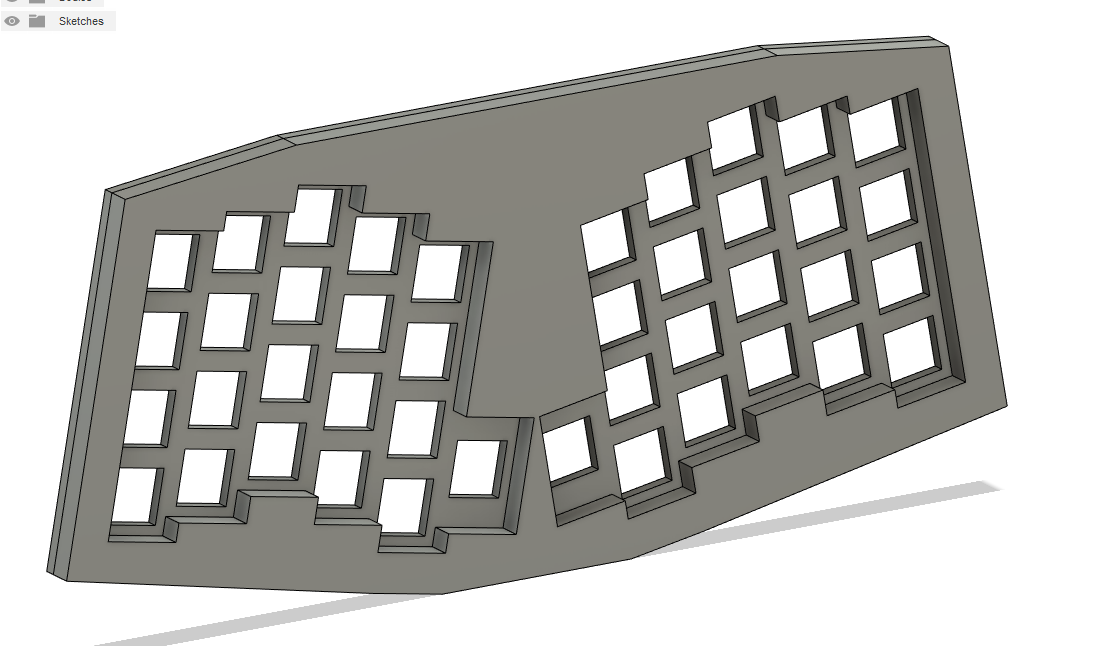
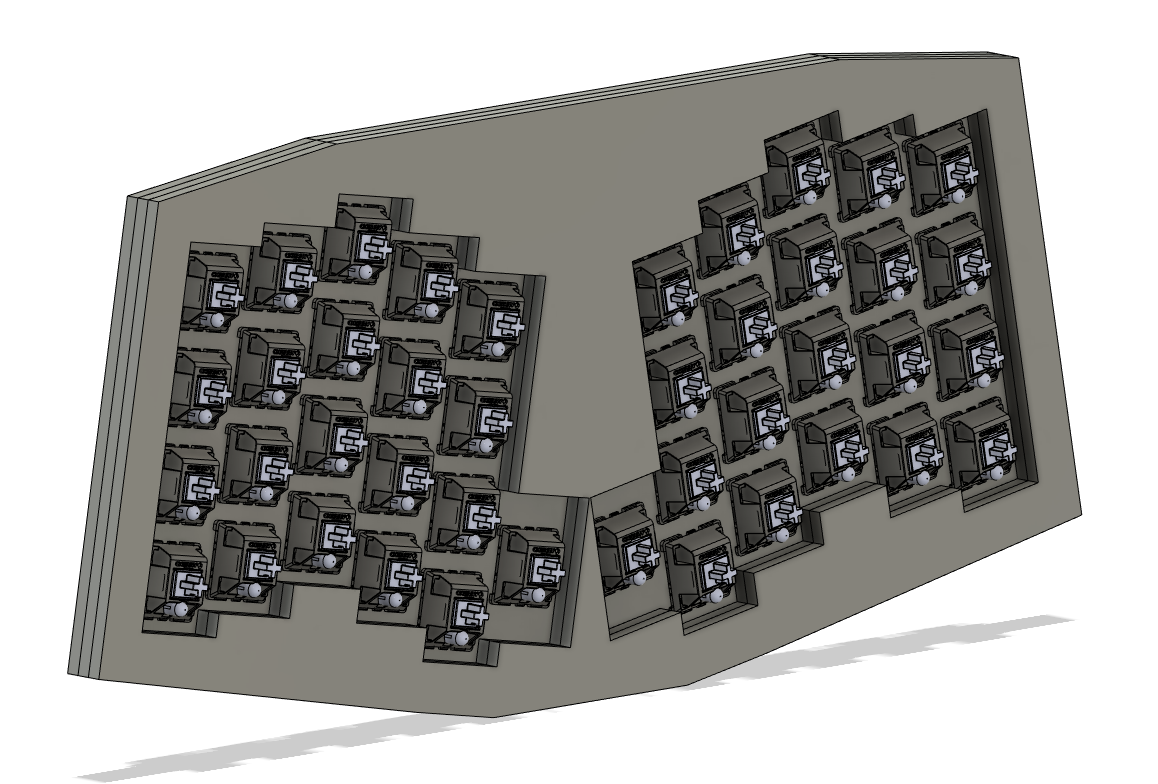
Update README with recent progress.

diff --git a/README.md b/README.md
@@ -25,9 +25,11 @@ To run the script, launch Fusion 360 and within a design press `Shift + S` to op
 
 A number of sample JSON files have been included for testing in this repository, under the `sample-data` directory.
 
-Here you can see a couple examples of models generated with the included sample-data KLE JSON files for the Atreus and JD40 keyboards:
+Here you can see a couple examples of models generated with the included sample-data KLE JSON files for the Atreus, OG Space Cadet, and JD40 keyboard layouts:
 
 ![Atreus](Images/atreus.png)
+
+![OG Space Cadet](Images/space-cadet.png)
 
 ![JD40](Images/jd40.png)
 
@@ -38,13 +40,16 @@ This script is currently in its very early stages of development. Its feature se
 * Generate a plate from an arbitrary KLE
 * Generate a matching bezel layer for the plate
 * Shape the plate and bezel using an offset convex hull around the bezel
+* Insert switches in the correct position and orientation in the switch plate
 
 Due to an encoding issue, it's recommended that you don't try to use any unicode characters (including arrow symbols for example) in your KLE JSON file. There is a button in KLE settings to remove all legends.
 
 ## Upcoming work
 
-* Position all switches at the appropriate location and orientation inside the switch plate.
+* Fix the JSON encoding issue that causes KLEs with unicode characters (like arrow symbols) to crash
 * Position the corresponding keycap (including legend) if one exists in a selected keycap models directory.
+* Extend case design to include a mid-section and base.
+* Create a configuration file syntax to allow easy repeatable case generation without changing code directly. Would like to include different case styles (e.g. hipro/lopro, CNC vs laser cut) and custom measurements/tolerances (e.g. distance to bezel wall, minimum wall thickness, etc).
 
 ## Recommended Resources
 
@@ -55,5 +60,10 @@ Due to an encoding issue, it's recommended that you don't try to use any unicode
 [Keyboard Layout Editor (KLE)](http://www.keyboard-layout-editor.com)
 
 ## Contribution
+All original code in this repository is Free Software licensed under [GNU GPLv3](https://www.gnu.org/licenses/gpl-3.0.en.html).
 
-I'm really excited that you want to extend or contribute to this script! If you make a new feature and want to merge it into this repo, feel free to shoot me a pull request. This repository is Free Software licensed under [GNU GPLv3](https://www.gnu.org/licenses/gpl-3.0.en.html).
+I'd be really stoked if anyone wants to extend or contribute to this script! If you make a new feature and want to merge it into this repo, feel free to shoot me a pull request. 
+
+The sample-data folder is only for use as test data for developing software and is not intended to confer any license or rights to use the respective keyboard layouts in commercial products.
+
+Please respect the designers who spend countless hours developing and iterating on their keyboard ideas: support the original designers, don't buy clones, and don't use this software to make evil ripoff cases!
